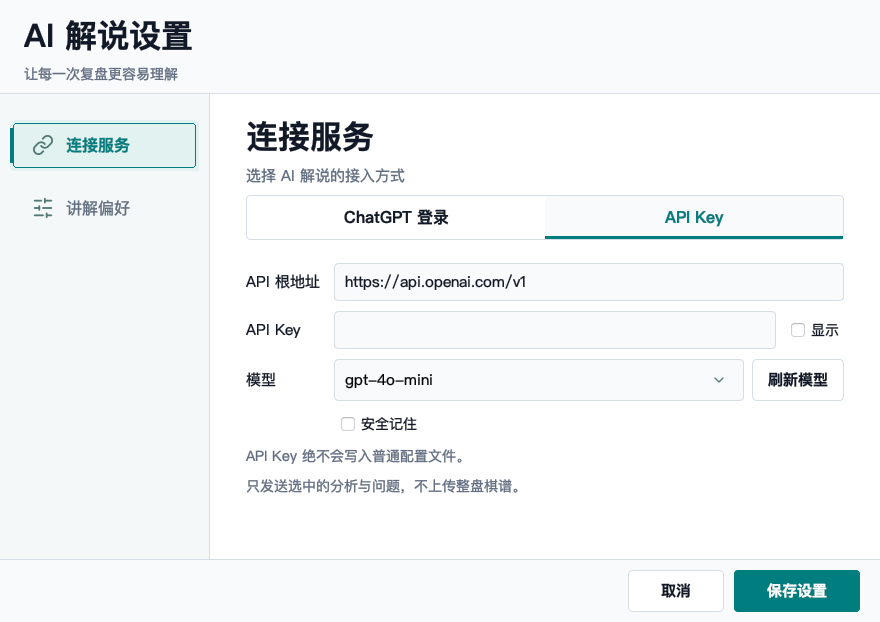
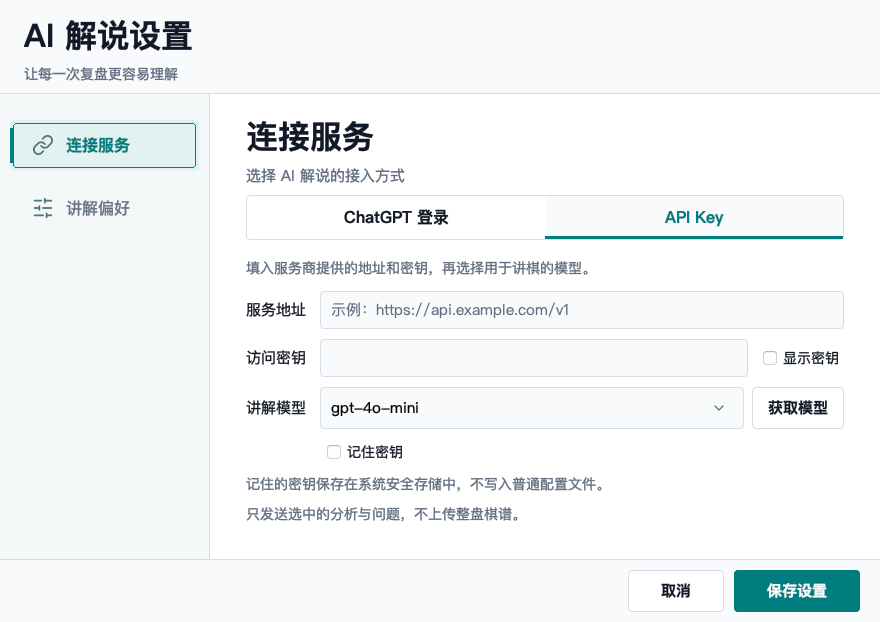
Clarify API setup and replace default address with an example

Changed region(s): [[0.2761, 0.3971, 0.9511, 0.8553]]

diff --git a/src/main/java/featurecat/lizzie/teacher/TeacherSettingsDialog.java b/src/main/java/featurecat/lizzie/teacher/TeacherSettingsDialog.java
@@ -56,7 +56,11 @@ final class TeacherSettingsDialog extends JDialog {
       new JToggleButton(design("preferences", "Commentary preferences"));
   private boolean preferencesVisible;
   private final ChatGptSettingsPanel chatGptPanel;
-  private final JTextField baseUrlField = new JTextField(34);
+  private final JTextField baseUrlField =
+      new TeacherExampleField(
+          TeacherStrings.get(
+              "Teacher.settings.addressExample", "Example: https://api.example.com/v1"),
+          34);
   private final JPasswordField apiKeyField = new JPasswordField(28);
   private final char passwordEchoChar = apiKeyField.getEchoChar();
   private final JComboBox<String> modelBox = new JComboBox<>();
@@ -359,10 +363,16 @@ final class TeacherSettingsDialog extends JDialog {
         api,
         row,
         0,
-        TeacherStrings.get("Teacher.settings.baseUrl", "API base URL"),
+        TeacherStrings.get("Teacher.settings.baseUrl", "Service address"),
         baseUrlField,
         baseUrlField);
-    apiRow(api, row, 1, "API Key", keyRow, apiKeyField);
+    apiRow(
+        api,
+        row,
+        1,
+        TeacherStrings.get("Teacher.settings.keyLabel", "Access key"),
+        keyRow,
+        apiKeyField);
     apiRow(api, row, 2, TeacherStrings.get("Teacher.settings.model", "Model"), modelRow, modelBox);
     row.gridx = 1;
     row.gridy = 3;
@@ -382,12 +392,21 @@ final class TeacherSettingsDialog extends JDialog {
             design(
                 "privacy",
                 "Only selected analysis and questions are sent; the full game is not uploaded."),
-            2),
+            1),
         row);
     row.gridy = 6;
     row.weighty = 1;
     api.add(TeacherSettingsStyle.panel(new BorderLayout()), row);
-    return api;
+    JPanel page = TeacherSettingsStyle.panel(new BorderLayout(0, 8));
+    page.add(
+        TeacherSettingsStyle.note(
+            TeacherStrings.get(
+                "Teacher.settings.apiHint",
+                "Enter the address and key from your provider, then choose a commentary model."),
+            1),
+        BorderLayout.NORTH);
+    page.add(api, BorderLayout.CENTER);
+    return page;
   }
 
   private static void apiRow(
@@ -659,6 +678,7 @@ final class TeacherSettingsDialog extends JDialog {
   }
 
   private void refreshModels() {
+    if (!validateAddressInput()) return;
     char[] key = apiKeyField.getPassword();
     String baseUrl = baseUrlField.getText();
     String selectedModel = selectedModel();
@@ -731,6 +751,8 @@ final class TeacherSettingsDialog extends JDialog {
           ChatGptSettingsPanel.text("choose", "Choose a connection method and finish setup."));
       return;
     }
+    if (!preferencesOnly && provider == TeacherSettings.Provider.API_KEY && !validateAddressInput())
+      return;
     String chatAccount = chatGptPanel.selectedAccountId();
     String chatModel = chatGptPanel.selectedModel();
     char[] key = apiKeyField.getPassword();
@@ -866,6 +888,23 @@ final class TeacherSettingsDialog extends JDialog {
     return message == null || message.isBlank()
         ? TeacherStrings.get("Teacher.error.generic", "The operation failed.")
         : message;
+  }
+
+  private boolean validateAddressInput() {
+    try {
+      TeacherSettings.validateBaseUrl(baseUrlField.getText());
+      return true;
+    } catch (IllegalArgumentException invalid) {
+      status.setText(
+          baseUrlField.getText().isBlank()
+              ? TeacherStrings.get(
+                  "Teacher.settings.enterAddress", "Enter the address supplied by your provider.")
+              : TeacherStrings.get(
+                  "Teacher.settings.invalidAddress",
+                  "Check the service address; use the full HTTPS address supplied by your provider."));
+      baseUrlField.requestFocusInWindow();
+      return false;
+    }
   }
 
   private static final class LoadedValues {

diff --git a/src/test/java/featurecat/lizzie/teacher/ChatGptSettingsNativeTest.java b/src/test/java/featurecat/lizzie/teacher/ChatGptSettingsNativeTest.java
@@ -86,7 +86,14 @@ class ChatGptSettingsNativeTest {
                             .filter(c -> "apiBaseUrl".equals(c.getName()))
                             .findFirst()
                             .orElseThrow();
+                assertEquals("", url.getText());
+                assertTrue(((TeacherExampleField) url).isExampleVisible());
+                ((AbstractButton) named(reference[0], "saveSettings")).doClick();
+                assertTrue(reference[0].isShowing());
+                assertEquals(TeacherSettings.Provider.UNSELECTED, settings.snapshot().provider);
+                assertEquals("", settings.snapshot().baseUrl);
                 url.setText("https://example.com/v1");
+                assertFalse(((TeacherExampleField) url).isExampleVisible());
                 button(reference[0], "preferencesPage").doClick();
                 reference[0].validate();
                 assertFalse(button(reference[0], "chatGptProvider").isShowing());
@@ -146,6 +153,58 @@ class ChatGptSettingsNativeTest {
         }
       }
     } finally {
+      Lizzie.resourceBundle = previous;
+    }
+  }
+
+  @Test
+  void addressExampleDisappearsOnFocusWithoutBecomingInput() throws Exception {
+    assumeTrue(
+        Boolean.getBoolean("lizzie.test.chatgptNative") && !GraphicsEnvironment.isHeadless());
+    var previous = Lizzie.resourceBundle;
+    var store = new ChatGptIntegrationTest.MemoryStore();
+    var settings =
+        new TeacherSettings(
+            directory.resolve("focus.properties"),
+            store,
+            new ChatGptSessions(directory.resolve("focus-session"), store, new ChatGptHttp()));
+    TeacherSettingsDialog[] dialog = new TeacherSettingsDialog[1];
+    try {
+      SwingUtilities.invokeAndWait(
+          () -> {
+            Lizzie.resourceBundle =
+                ResourceBundle.getBundle("l10n.DisplayStrings", Locale.SIMPLIFIED_CHINESE);
+            dialog[0] = new TeacherSettingsDialog(null, settings);
+            dialog[0].setModalityType(Dialog.ModalityType.MODELESS);
+            dialog[0].setVisible(true);
+          });
+      await(() -> button(dialog[0], "apiKeyProvider").isEnabled());
+      SwingUtilities.invokeAndWait(
+          () -> {
+            button(dialog[0], "apiKeyProvider").doClick();
+            named(dialog[0], "apiBaseUrl").requestFocusInWindow();
+          });
+      await(() -> named(dialog[0], "apiBaseUrl").hasFocus());
+      SwingUtilities.invokeAndWait(
+          () -> {
+            var address = (TeacherExampleField) named(dialog[0], "apiBaseUrl");
+            assertEquals("", address.getText());
+            assertFalse(address.isExampleVisible());
+            capture(dialog[0], "zh-CN-api-focused");
+            named(dialog[0], "apiSecret").requestFocusInWindow();
+          });
+      await(() -> named(dialog[0], "apiSecret").hasFocus());
+      SwingUtilities.invokeAndWait(
+          () -> {
+            var address = (TeacherExampleField) named(dialog[0], "apiBaseUrl");
+            assertTrue(address.isExampleVisible());
+            address.setText("https://provider.example/v1");
+            assertFalse(address.isExampleVisible());
+            assertEquals("https://provider.example/v1", address.getText());
+            assertEquals("", settings.snapshot().baseUrl);
+          });
+    } finally {
+      if (dialog[0] != null) SwingUtilities.invokeAndWait(dialog[0]::dispose);
       Lizzie.resourceBundle = previous;
     }
   }

diff --git a/src/main/java/featurecat/lizzie/teacher/TeacherSettings.java b/src/main/java/featurecat/lizzie/teacher/TeacherSettings.java
@@ -30,7 +30,8 @@ public final class TeacherSettings {
   private Provider provider = Provider.UNSELECTED;
   private ChatGptSessions chatGptSessions;
   private volatile ChatGptSessions.Account chatGptAccount;
-  static final String DEFAULT_BASE_URL = "https://api.openai.com/v1";
+  static final String DEFAULT_BASE_URL = "";
+  private static final String LEGACY_BASE_URL = "https://api.openai.com/v1";
   static final String DEFAULT_MODEL = "gpt-4o-mini";
 
   private static final String FILE_NAME = "teacher.properties";
@@ -92,7 +93,15 @@ public final class TeacherSettings {
       }
     }
 
-    baseUrl = validateBaseUrl(properties.getProperty("baseUrl", DEFAULT_BASE_URL));
+    // Only pre-provider settings may have relied on the former implicit OpenAI address.
+    String storedBaseUrl = properties.getProperty("baseUrl");
+    if (storedBaseUrl == null || storedBaseUrl.isBlank()) {
+      storedBaseUrl =
+          Files.isRegularFile(settingsFile) && !properties.containsKey("provider")
+              ? LEGACY_BASE_URL
+              : DEFAULT_BASE_URL;
+    }
+    baseUrl = storedBaseUrl.isBlank() ? "" : validateBaseUrl(storedBaseUrl);
     try {
       provider =
           Provider.valueOf(
@@ -118,7 +127,7 @@ public final class TeacherSettings {
       rememberApiKey = false;
       properties.remove("apiKey");
       writeProperties(sanitizedProperties());
-    } else if (rememberApiKey && credentialStore.isAvailable()) {
+    } else if (rememberApiKey && !baseUrl.isBlank() && credentialStore.isAvailable()) {
       try {
         Optional<String> stored =
             credentialStore.read(CredentialStore.Kind.API_KEY, credentialAccount(baseUrl));
@@ -140,7 +149,7 @@ public final class TeacherSettings {
     String normalizedBaseUrl = validateBaseUrl(requestedBaseUrl);
     String normalizedModel = validateModel(requestedModel);
     char[] suppliedKey = requestedApiKey == null ? new char[0] : requestedApiKey.clone();
-    String oldAccount = credentialAccount(baseUrl);
+    String oldAccount = baseUrl.isBlank() ? null : credentialAccount(baseUrl);
     String newAccount = credentialAccount(normalizedBaseUrl);
 
     try {
@@ -155,7 +164,7 @@ public final class TeacherSettings {
       } else {
         credentialStore.delete(CredentialStore.Kind.API_KEY, newAccount);
       }
-      if (!oldAccount.equals(newAccount)) {
+      if (oldAccount != null && !oldAccount.equals(newAccount)) {
         credentialStore.delete(CredentialStore.Kind.API_KEY, oldAccount);
       }
 
@@ -248,7 +257,9 @@ public final class TeacherSettings {
   }
 
   public synchronized void forgetApiKey() throws IOException {
-    credentialStore.delete(CredentialStore.Kind.API_KEY, credentialAccount(baseUrl));
+    if (!baseUrl.isBlank()) {
+      credentialStore.delete(CredentialStore.Kind.API_KEY, credentialAccount(baseUrl));
+    }
     replaceSessionApiKey(new char[0]);
     rememberApiKey = false;
     loaded = true;
@@ -303,7 +314,9 @@ public final class TeacherSettings {
   static String validateBaseUrl(String value) {
     String candidate = value == null ? "" : value.trim();
     if (candidate.isEmpty()) {
-      candidate = DEFAULT_BASE_URL;
+      throw new IllegalArgumentException(
+          TeacherStrings.get(
+              "Teacher.settings.enterAddress", "Enter the address supplied by your provider."));
     }
     while (candidate.endsWith("/")) {
       candidate = candidate.substring(0, candidate.length() - 1);

diff --git a/src/test/java/featurecat/lizzie/teacher/TeacherSettingsTest.java b/src/test/java/featurecat/lizzie/teacher/TeacherSettingsTest.java
@@ -119,7 +119,44 @@ class TeacherSettingsTest {
   }
 
   @Test
+  void freshSettingsStayBlankAcrossPreferenceSaveAndReload() throws Exception {
+    Path file = temporaryDirectory.resolve("new.properties");
+    var store = new MemoryCredentialStore(true);
+    var settings = new TeacherSettings(file, store);
+    assertEquals("", settings.load().baseUrl);
+    settings.saveTeachingPreferences("k", 5, 0, 1, 1, 1);
+    assertEquals("", new TeacherSettings(file, store).load().baseUrl);
+    assertThrows(
+        IllegalArgumentException.class, () -> settings.save("  ", "model", new char[0], false));
+    assertFalse(Files.readString(file).contains("openai.com"));
+    settings.forgetApiKey();
+    assertEquals("", settings.snapshot().baseUrl);
+  }
+
+  @Test
+  void explicitlySavedOpenAiAddressIsNotCleared() throws Exception {
+    Path file = temporaryDirectory.resolve("existing.properties");
+    var store = new MemoryCredentialStore(true);
+    var settings = new TeacherSettings(file, store);
+    settings.load();
+    settings.save("https://api.openai.com/v1", "model", new char[0], false);
+    assertEquals("https://api.openai.com/v1", new TeacherSettings(file, store).load().baseUrl);
+  }
+
+  @Test
+  void legacySettingsWithoutAnAddressRetainTheirOriginalEndpoint() throws Exception {
+    Path file = temporaryDirectory.resolve("legacy.properties");
+    Files.writeString(file, "model=legacy-model\n");
+    assertEquals(
+        "https://api.openai.com/v1",
+        new TeacherSettings(file, new MemoryCredentialStore(true)).load().baseUrl);
+  }
+
+  @Test
   void validatesProviderUrlAndModel() {
+    assertThrows(IllegalArgumentException.class, () -> TeacherSettings.validateBaseUrl(""));
+    assertThrows(IllegalArgumentException.class, () -> TeacherSettings.validateBaseUrl(null));
+    assertThrows(IllegalArgumentException.class, () -> TeacherLlmClient.normalizeApiBase(""));
     assertThrows(
         IllegalArgumentException.class,
         () -> TeacherSettings.validateBaseUrl("file:///tmp/provider"));

diff --git a/src/main/java/featurecat/lizzie/teacher/TeacherExampleField.java b/src/main/java/featurecat/lizzie/teacher/TeacherExampleField.java
@@ -1,0 +1,59 @@
+package featurecat.lizzie.teacher;
+
+import java.awt.Graphics;
+import java.awt.Graphics2D;
+import java.awt.event.FocusAdapter;
+import java.awt.event.FocusEvent;
+import javax.swing.JTextField;
+
+/** An example is painted only; it never becomes input or saved configuration. */
+final class TeacherExampleField extends JTextField {
+  private final String example;
+
+  TeacherExampleField(String example, int columns) {
+    super(columns);
+    this.example = example;
+    getAccessibleContext().setAccessibleDescription(example);
+    addFocusListener(
+        new FocusAdapter() {
+          @Override
+          public void focusGained(FocusEvent event) {
+            repaint();
+          }
+
+          @Override
+          public void focusLost(FocusEvent event) {
+            repaint();
+          }
+        });
+  }
+
+  boolean isExampleVisible() {
+    return getText().isEmpty() && !hasFocus();
+  }
+
+  @Override
+  protected void paintComponent(Graphics graphics) {
+    super.paintComponent(graphics);
+    if (!isExampleVisible()) return;
+    Graphics2D copy = (Graphics2D) graphics.create();
+    try {
+      var insets = getInsets();
+      copy.clipRect(
+          insets.left,
+          insets.top,
+          Math.max(0, getWidth() - insets.left - insets.right),
+          Math.max(0, getHeight() - insets.top - insets.bottom));
+      copy.setColor(TeacherSettingsStyle.muted());
+      copy.setFont(getFont());
+      var metrics = copy.getFontMetrics();
+      int baseline =
+          insets.top
+              + (getHeight() - insets.top - insets.bottom - metrics.getHeight()) / 2
+              + metrics.getAscent();
+      copy.drawString(example, insets.left, baseline);
+    } finally {
+      copy.dispose();
+    }
+  }
+}

diff --git a/docs/qa/chatgpt-commentary-20260930.md b/docs/qa/chatgpt-commentary-20260930.md
@@ -64,6 +64,26 @@ selection. The before/after first-open screenshots are recorded in `design-qa.md
   Clicked through API Key, Preferences and back to ChatGPT; all displayed correctly.
   No login, model request, credential save or inference request was performed.
 
+## API copy follow-up
+
+New settings no longer populate or silently fall back to an OpenAI
+address. Existing explicit addresses and pre-provider legacy implicit addresses are preserved.
+The service-address example is painted outside the document, hides on focus, and never
+becomes a saved value. Empty addresses fail before saving or starting model discovery.
+Twenty-two focused tests passed, including real focus changes, seven locale layouts and
+legacy/new settings reload. The API screenshot and focused-empty screenshot are updated.
+
+- Final headless Maven `verify` and shaded packaging passed: 4,532 unit-test
+  invocations, zero failures/errors, 95 skipped; seven integration-test invocations,
+  zero failures/errors, six skipped. The 22 focused tests passed without skips.
+- Opened a temporary jpackage preview of the final shaded JAR with a fresh isolated
+  configuration. The API page visibly shows the new labels, empty service address,
+  example hint and compact instructions without a scrollbar. No credentials or
+  requests were submitted.
+- The desktop automation tool did not reliably focus the packaged address field;
+  its click-to-hide check is therefore inconclusive. Focus hide/restore behavior is
+  verified by the native Swing test, not claimed as a passed manual click check.
+
 ## Not yet accepted
 
 - Real eligible ChatGPT account: official authorization, account model catalog, live commentary,

diff --git a/design-qa.md b/design-qa.md
@@ -23,6 +23,14 @@ the older commentary-reader report below is retained and is not evidence for thi
 
 ## Findings And Corrections
 
+- User-requested API copy revision: replace technical base-URL terminology with Service
+  address, Access key, Commentary model and Get models, with a provider-supplied-values
+  explanation. The new address field starts empty; its example hides on focus and is not
+  editable content. Existing saved addresses are not erased. API layout screenshots are
+  `docs/screenshots/chatgpt-api-key-zh-CN.png` and
+  `docs/qa/chatgpt-settings/zh-CN-api-focused.png`. The first revision added unnecessary
+  minimum text rows and caused a default scrollbar; removing those empty minimum rows
+  restored all seven locale layouts without relaxing the no-scroll assertions.
 - Reopened P1 after the next user report: the first-open `UNSELECTED` connection card
   contained only a sentence and no illustration. Earlier tests clicked ChatGPT before
   capturing, so the selected-state comparison did not cover the actual onboarding state.
